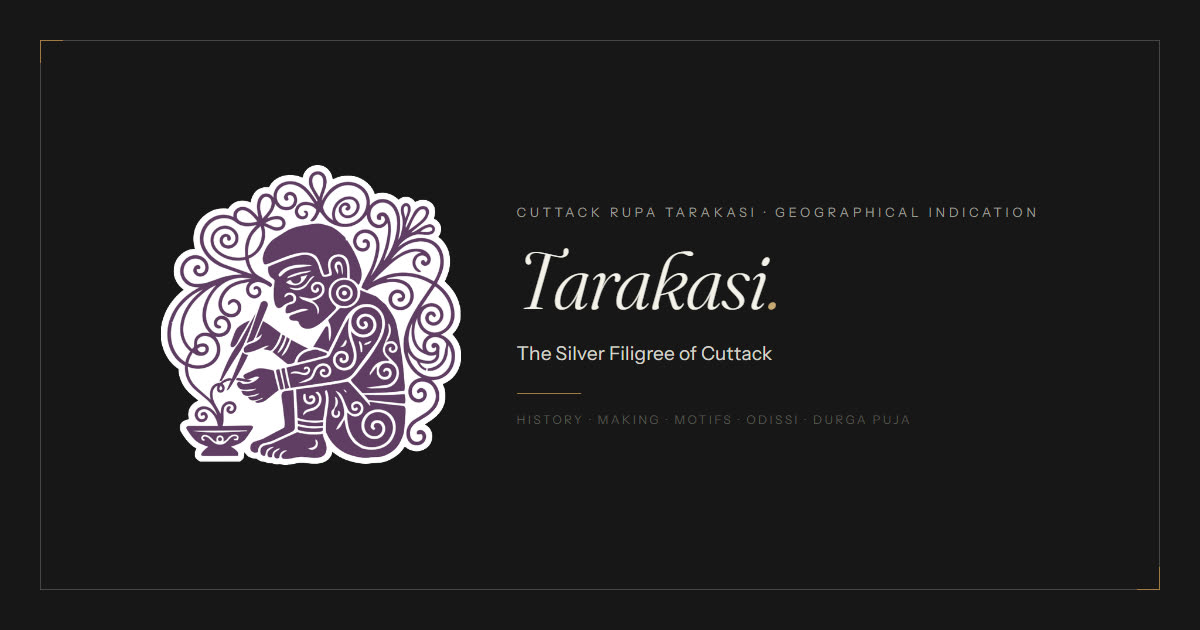
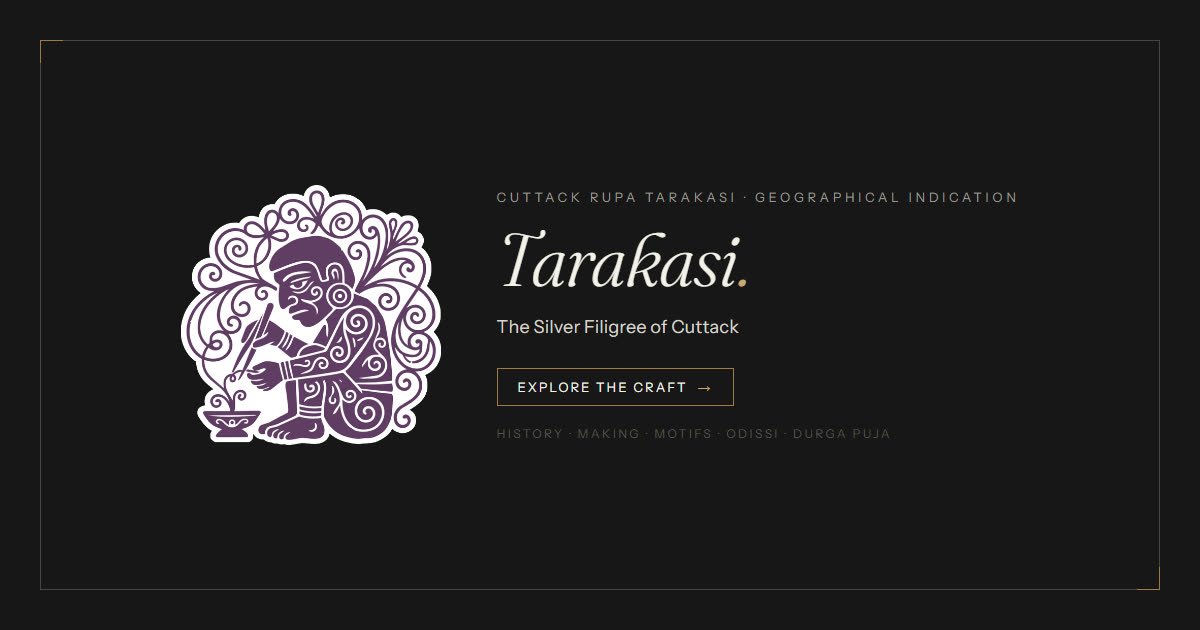
Fix literal em-dash escape bug in meta tags, shorten OG/Twitter descriptions, add CTA to OG image

Changed region(s): [[0.1233, 0.2413, 0.8633, 0.754], [0.4317, 0.6635, 0.74, 0.6937], [0.4317, 0.6032, 0.5858, 0.6333]]

diff --git a/frontend/public/index.html b/frontend/public/index.html
@@ -4,7 +4,7 @@
         <meta charset="utf-8" />
         <meta name="viewport" content="width=device-width, initial-scale=1" />
         <meta name="theme-color" content="#F4F1EA" />
-        <meta name="description" content="Cuttack Rupa Tarakasi: a GI-recognised silver filigree craft \u2014 its history, making, motifs, Odissi and Durga Puja role, and the challenges it faces today." />
+        <meta name="description" content="Cuttack Rupa Tarakasi: a GI-recognised silver filigree craft — its history, making, motifs, Odissi and Durga Puja role, and the challenges it faces today." />
         <link rel="canonical" href="https://katakatarakasi.com/" />
         <link rel="icon" href="/favicon-32.png" type="image/png" sizes="32x32" />
         <link rel="apple-touch-icon" href="/apple-touch-icon.png" />
@@ -13,7 +13,7 @@
         <meta property="og:site_name" content="Tarakasi" />
         <meta property="og:url" content="https://katakatarakasi.com/" />
         <meta property="og:title" content="Tarakasi: The Silver Filigree of Cuttack" />
-        <meta property="og:description" content="The history, making, and motifs of Cuttack's GI-recognised silver filigree craft \u2014 Odissi, Durga Puja, and its living challenges." />
+        <meta property="og:description" content="Explore Cuttack's GI-recognised silver filigree craft — history, making, motifs, Odissi and Durga Puja." />
         <meta property="og:image" content="https://katakatarakasi.com/images/og-image.jpg" />
         <meta property="og:image:width" content="1200" />
         <meta property="og:image:height" content="630" />
@@ -21,7 +21,7 @@
 
         <meta name="twitter:card" content="summary_large_image" />
         <meta name="twitter:title" content="Tarakasi: The Silver Filigree of Cuttack" />
-        <meta name="twitter:description" content="The history, making, and motifs of Cuttack's GI-recognised silver filigree craft \u2014 Odissi, Durga Puja, and its living challenges." />
+        <meta name="twitter:description" content="Explore Cuttack's GI-recognised silver filigree craft — history, making, motifs, Odissi and Durga Puja." />
         <meta name="twitter:image" content="https://katakatarakasi.com/images/og-image.jpg" />
 
         <link rel="preconnect" href="https://fonts.googleapis.com" />
@@ -34,7 +34,7 @@
           "@context": "https://schema.org",
           "@type": "Article",
           "headline": "Tarakasi: The Silver Filigree of Cuttack",
-          "description": "Cuttack Rupa Tarakasi: a GI-recognised silver filigree craft \u2014 its history, making, motifs, Odissi and Durga Puja role, and the challenges it faces today.",
+          "description": "Cuttack Rupa Tarakasi: a GI-recognised silver filigree craft — its history, making, motifs, Odissi and Durga Puja role, and the challenges it faces today.",
           "image": "https://katakatarakasi.com/images/og-image.jpg",
           "url": "https://katakatarakasi.com/",
           "about": {
